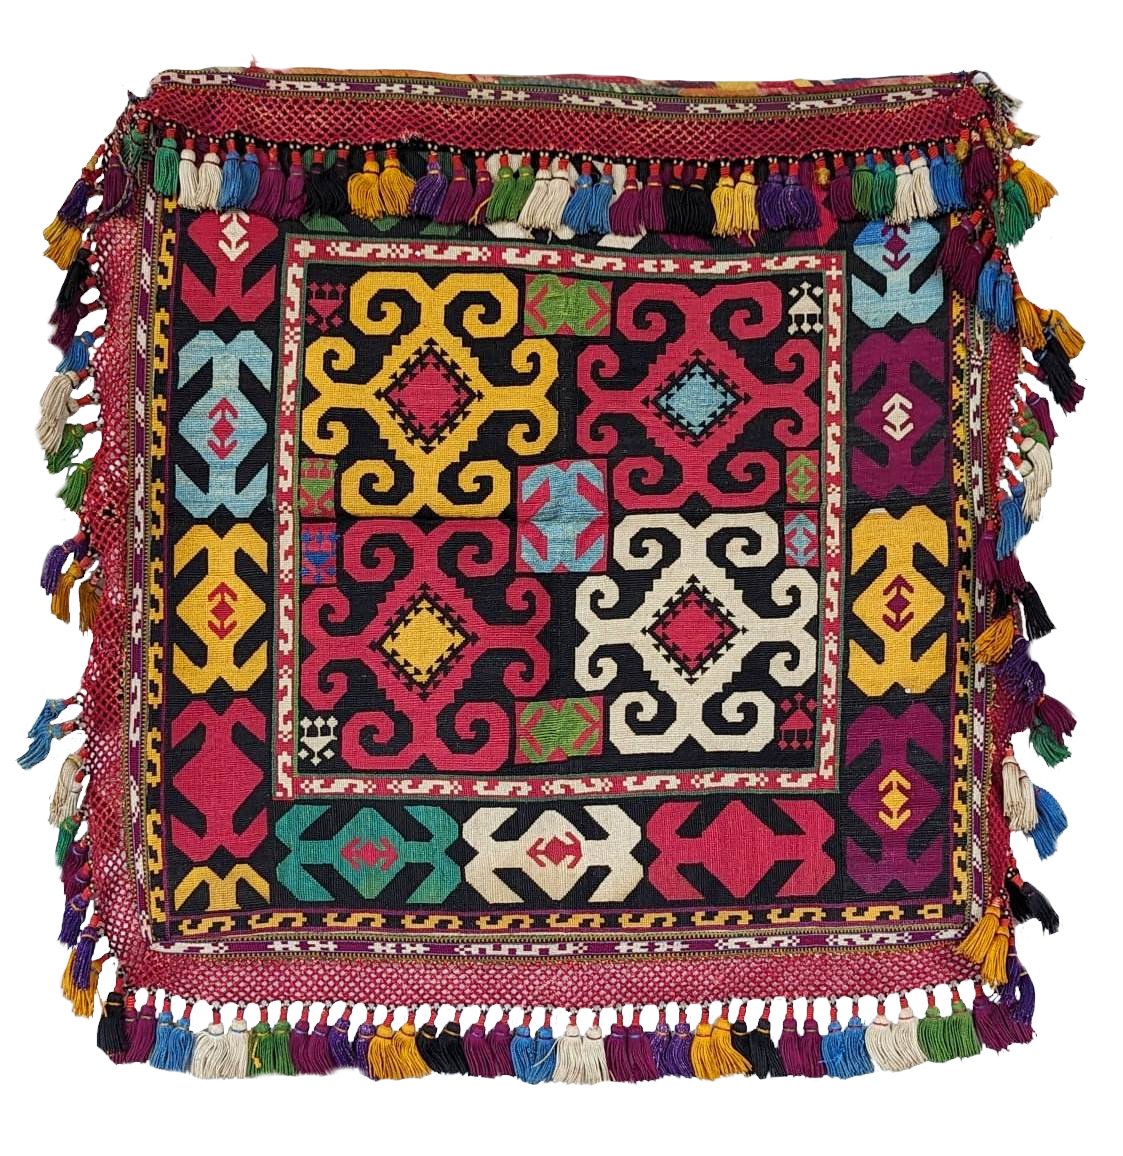
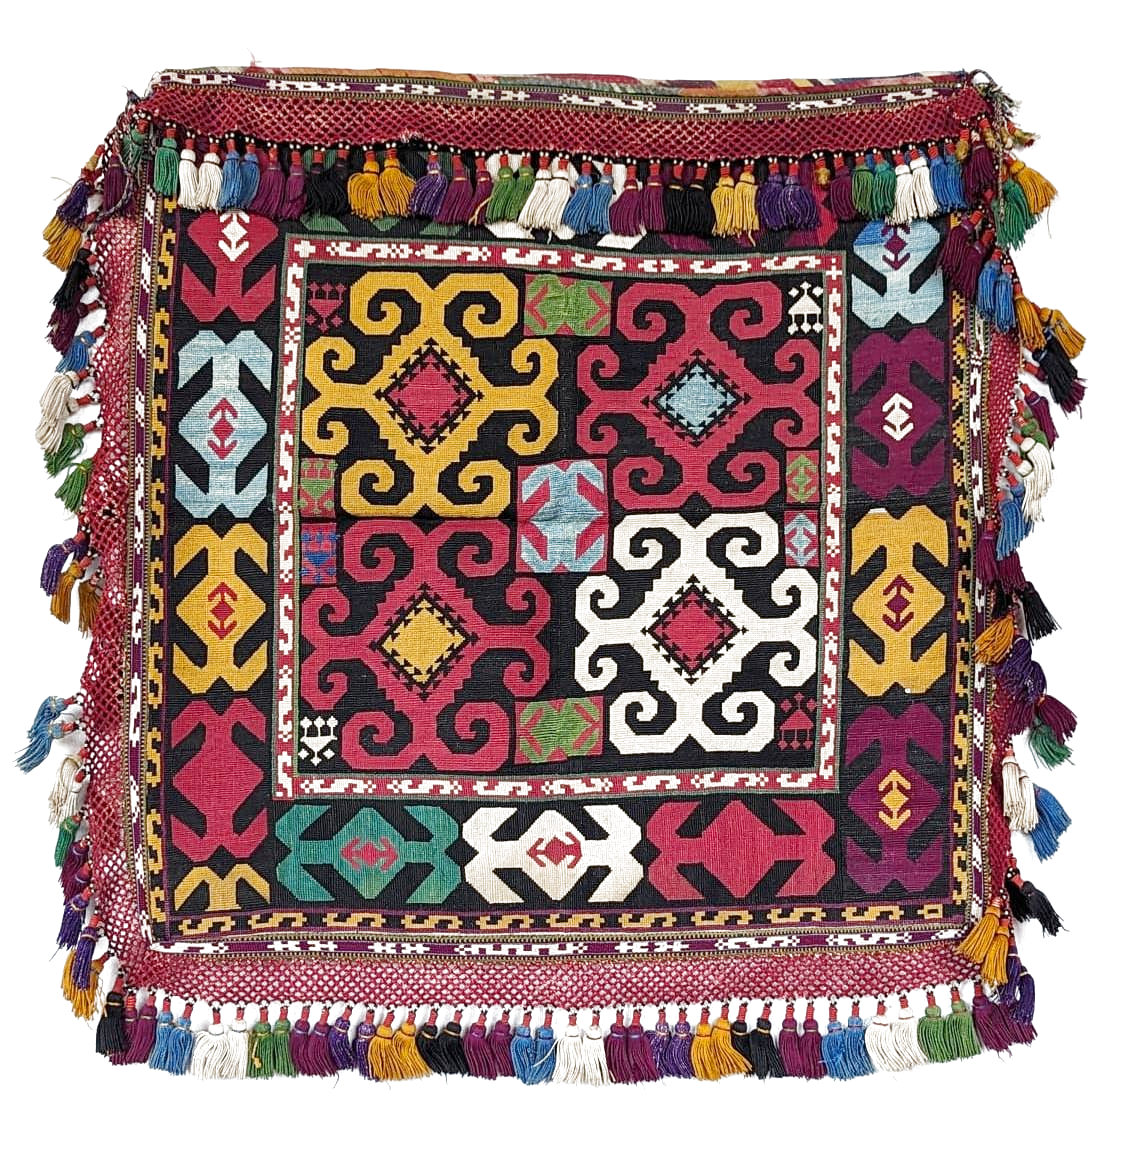
Replace uzbek_lakai_square.png image

diff --git a/contact.html b/contact.html
@@ -81,7 +81,7 @@
             <p>Find us on Instagram <a href="https://www.instagram.com/rubiadarya/">@rubiadarya</a> for updates.</p> 
         </div>
         <div class="image">
-            <img src="Kurd square bag.png" alt="Kurdish bag" id="kurdish-bag">  
+            <img src="uzbek_lakai_square.png" alt="Kurdish bag" id="kurdish-bag">  
         </div>
     </div>
     <script>
